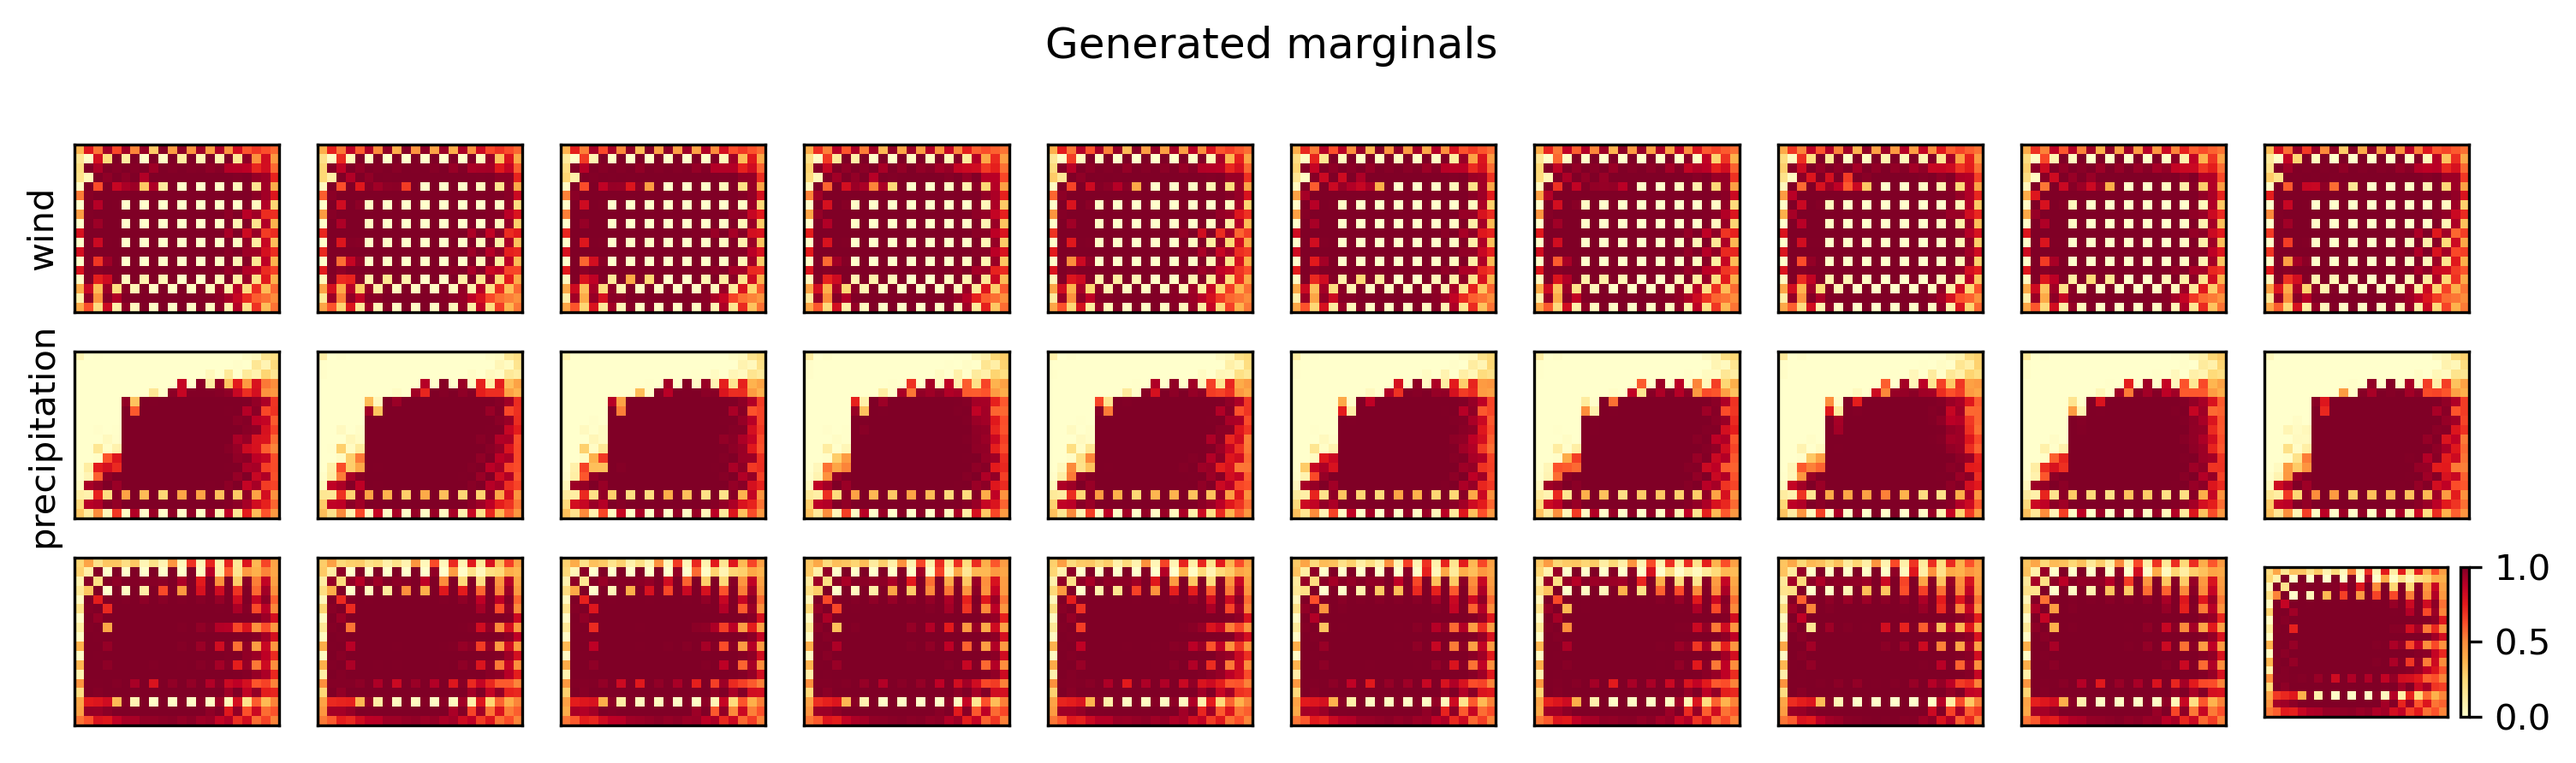
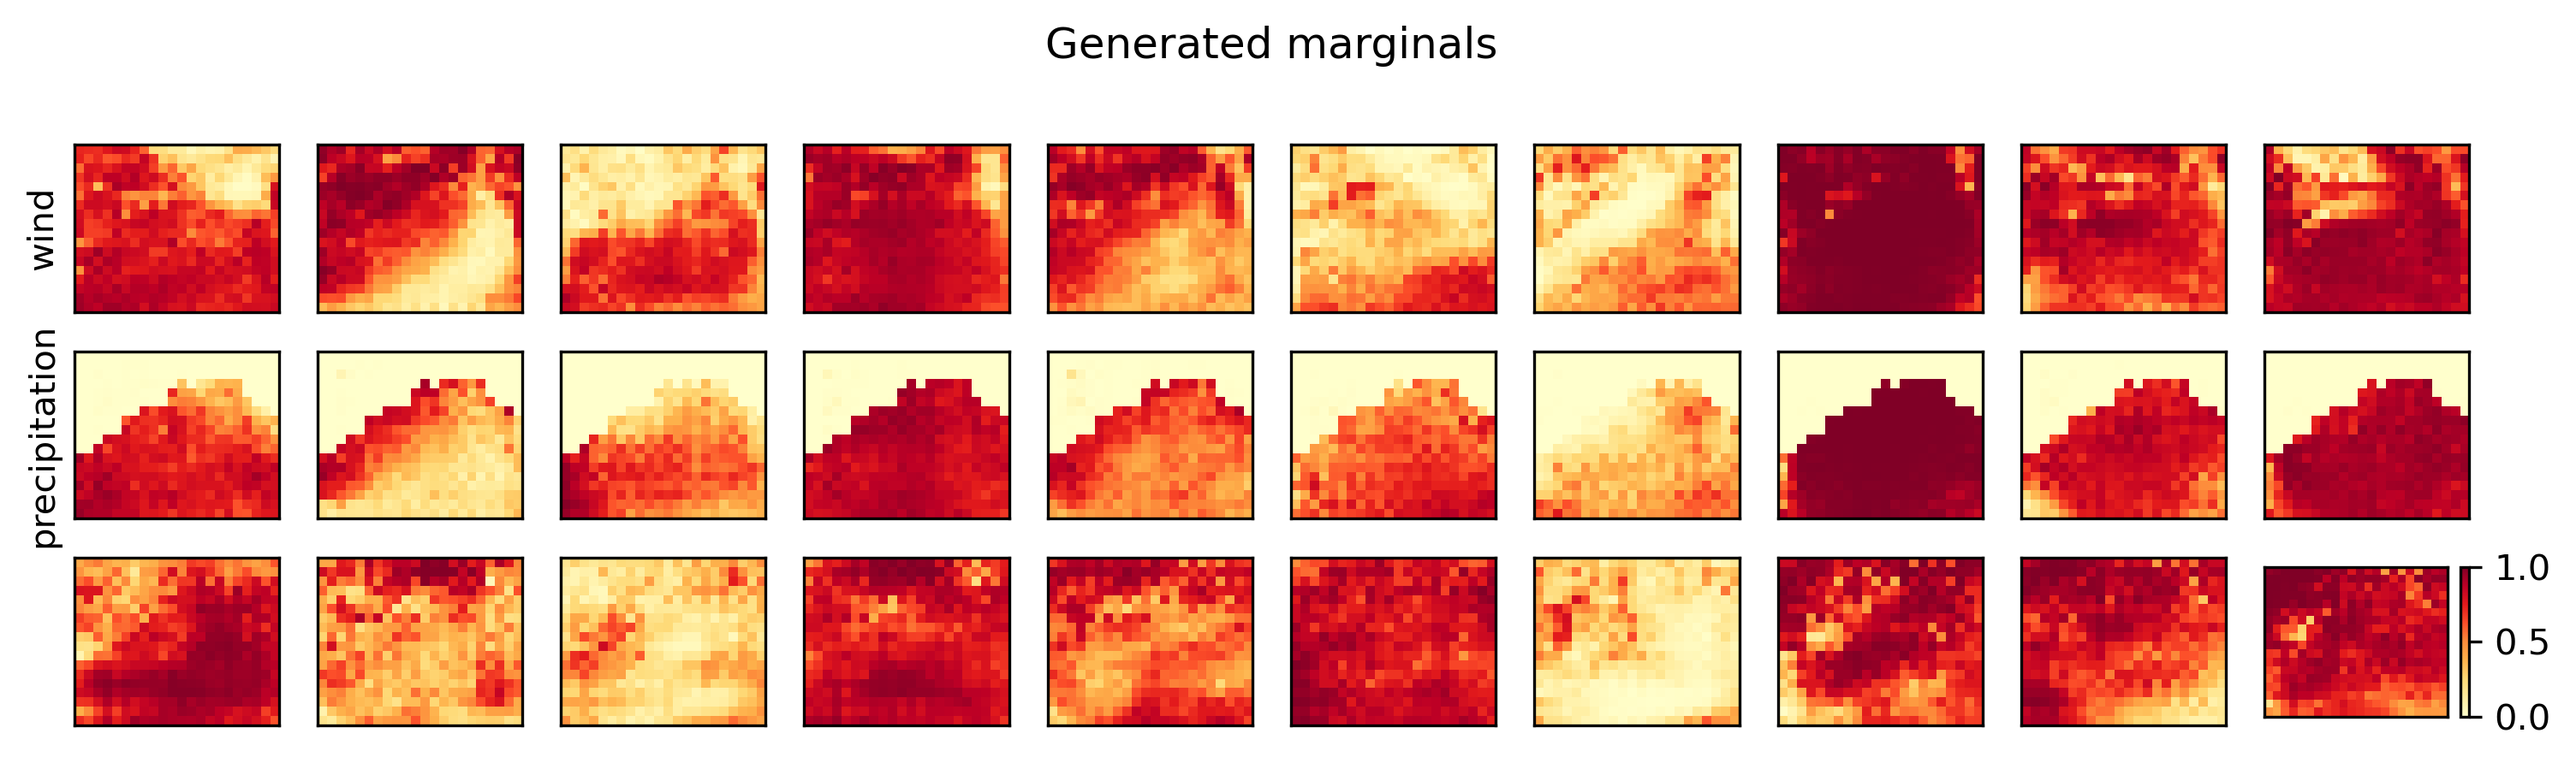
increased data used to fit GPD

diff --git a/evtGAN/tf_utils.py b/evtGAN/tf_utils.py
@@ -12,6 +12,15 @@ from mpl_toolkits.axes_grid1.axes_divider import make_axes_locatable
 
 SEED = 42
 
+def translate_indices(i, dims=(18, 22)):
+    indices = np.arange(0, dims[0] * dims[1], 1)
+    x = np.argwhere(indices.reshape(dims[0], dims[1]) == i)
+    return tuple(*map(tuple, x))
+
+def translate_indices_r(i, j, dims=(18, 22)):
+    indices = np.arange(0, dims[0] * dims[1], 1)
+    x = indices.reshape(dims[0], dims[1])[i, j]
+    return x
 
 def tf_unpad(tensor, paddings=tf.constant([[0,0], [1,1], [1,1], [0,0]])):
     """Mine: remove Tensor paddings"""
@@ -34,7 +43,7 @@ def inverse_gumbel_transform(data):
     return uniform
 
 
-def probability_integral_transform(dataset, distribution="uniform", thresholds=None, fit_tail=False):
+def probability_integral_transform(dataset, distribution="uniform", prior=None, thresholds=None, fit_tail=False):
     """Transform data to uniform distribution using ecdf."""
     n, h, w, c = dataset.shape
     assert c == 1, "single channel only"
@@ -44,7 +53,7 @@ def probability_integral_transform(dataset, distribution="uniform", thresholds=N
         assert thresholds is not None, "Thresholds must be supplied if fitting tail."
         thresholds = thresholds.reshape(h * w)
 
-    uniform, parameters = semiparametric_cdf(dataset, thresholds, fit_tail=fit_tail)
+    uniform, parameters = semiparametric_cdf(dataset, prior, thresholds, fit_tail=fit_tail)
 
     uniform = uniform.reshape(n, h, w, 1)
     parameters = parameters.reshape(h, w, 3)
@@ -59,7 +68,7 @@ def probability_integral_transform(dataset, distribution="uniform", thresholds=N
     return transformed, parameters
 
 
-def semiparametric_cdf(dataset, thresh=None, fit_tail=False):
+def semiparametric_cdf(dataset, prior=None, thresh=None, fit_tail=False):
     assert dataset.ndim == 2, "Requires 2 dimensions"
     x = dataset.copy()
     n, J = np.shape(x)
@@ -73,12 +82,12 @@ def semiparametric_cdf(dataset, thresh=None, fit_tail=False):
     loc = np.empty(J)
     scale = np.empty(J)
     for j in range(J):
-        x[:, j], shape[j], loc[j], scale[j] = semiparametric_marginal_cdf(x[:, j], fit_tail=fit_tail, thresh=thresh[j])
+        x[:, j], shape[j], loc[j], scale[j] = semiparametric_marginal_cdf(x[:, j], prior=prior, fit_tail=fit_tail, thresh=thresh[j])
     parameters = np.stack([shape, loc, scale], axis=-1)
     return x, parameters
 
 
-def semiparametric_marginal_cdf(x, fit_tail=False, thresh=None):
+def semiparametric_marginal_cdf(x, prior=None, fit_tail=False, thresh=None):
     """Heffernan & Tawn (2004). 
     
     Note shape parameter is opposite sign to Heffernan & Tawn (2004).
@@ -95,7 +104,7 @@ def semiparametric_marginal_cdf(x, fit_tail=False, thresh=None):
         f_tail = f[x > thresh]
         x_tail = x_tail.astype(np.float64)  # otherwise f_thresh gets rounded down below f_thresh
         shape, loc, scale = genpareto.fit(x_tail, floc=thresh, method="MLE")
-        f_thresh = np.interp(thresh, sorted(x), sorted(f)) #ecdf(x).cdf.evaluate(thresh)
+        f_thresh = np.interp(thresh, sorted(x), sorted(f))
         f_tail = 1 - (1 - f_thresh) * (np.maximum(0, (1 - shape * (x_tail - thresh) / scale)) ** (1 / shape))  # second set of parenthesis important
         assert min(f_tail) >= f_thresh, "Error in upper tail calculation."
         f[x > thresh] = f_tail

diff --git a/scripts/train_dcgan.py b/scripts/train_dcgan.py
@@ -26,7 +26,7 @@ plot_kwargs = {'bbox_inches': 'tight', 'dpi': 300}
 # some static variables
 cwd = os.getcwd() # scripts directory
 wd = os.path.join(cwd, "..") # cycloneGAN directory
-datadir = os.path.join(wd, "..", "multivariate") # keep data folder in parent directory 
+datadir = os.path.join(wd, "..", "..", "multivariate") # keep data folder in parent directory 
 imdir = os.path.join(wd, 'figures', 'temp')
 paddings = tf.constant([[0,0], [1,1], [1,1], [0,0]])
 
@@ -46,8 +46,8 @@ def save_config(dir):
 
 def main(config):
     # load data
-    train_marginals, _, params, images, thresholds = tf_utils.load_training_data(datadir, config.train_size, paddings=paddings)
-    test_marginals, *_ = tf_utils.load_test_data(datadir)
+    train_marginals, test_marginals, params, images, thresholds = tf_utils.load_training_data(datadir, config.train_size, paddings=paddings)
+    #test_marginals, *_ = tf_utils.load_test_data(datadir)
 
     train = tf.data.Dataset.from_tensor_slices(train_marginals).batch(config.batch_size)
     test = tf.data.Dataset.from_tensor_slices(test_marginals).batch(config.batch_size)

diff --git a/evtGAN/viz_utils.py b/evtGAN/viz_utils.py
@@ -11,6 +11,12 @@ from .tf_utils import *
 
 channel_labels = {0: r'wind speed [ms$^{-1}$]', 1: 'sig. wave height [m]', 2: 'total precipitation [m]'}
 
+
+longitude = np.linspace(80.0, 95.0, 3)
+latitude = np.linspace(10.0, 25.0, 4)
+
+
+
 def discrete_colormap(data, nintervals, min=None, cmap="cividis", under='dimgrey'):
     cmap = getattr(mpl.cm, cmap)
     if min is not None:
